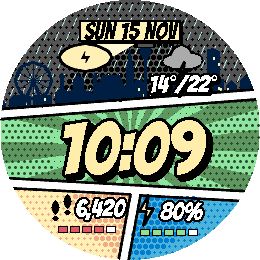
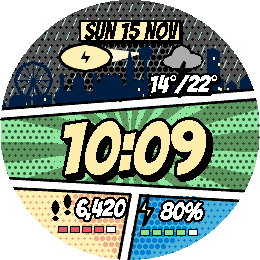
Real Donauturm silhouette; HA login fixes for local addresses
- Donauturm: slim shaft, stacked cylindrical head and the long antenna
  mast. The funnel under the head made it look like a wine glass.
- Home Assistant addresses typed without a scheme get http:// when
  they look local (mDNS names, private IPs, port 8123) instead of
  https://, which never loads on a local instance. The settings page
  shows "Opening …" while Home Assistant loads, plus a hint to try the
  external address if the login page stays blank.
- After the login, the settings carried through the OAuth state are
  sent to the watch right away.

Verified the whole login against a local Home Assistant 2026.2 in
Chromium (authorize page, redirect, token exchange) and the bundled
PebbleKit JS in a Node harness (entity list, HA_TEMP sent).

Claude-Session: https://claude.ai/code/session_018Kv7eDqzGjxn9kZXyPpq7g

Changed region(s): [[0.3692, 0.1538, 0.5846, 0.2462], [0.5538, 0.3077, 0.5846, 0.3692]]

diff --git a/src/pkjs/config.html b/src/pkjs/config.html
@@ -140,6 +140,8 @@
       <p class="hint">Enter the address you use to open Home Assistant (reachable from your phone, e.g. your Nabu Casa URL).</p>
       <input type="url" id="haUrl" placeholder="https://example.ui.nabu.casa" autocapitalize="off" autocorrect="off">
       <p><button class="btn small" id="haConnect" type="button">Connect</button></p>
+      <p class="status hidden" id="haStatus"></p>
+      <p class="hint">Local addresses (like <code>homeassistant.local:8123</code>) need your phone on the home Wi-Fi. If the login page stays blank, try your Nabu Casa or other external https address.</p>
     </div>
   </div>
 
@@ -241,10 +243,19 @@
     }
     return out;
   }
+  // Copies of isLocalHaHost / normalizeHaUrl from src/pkjs/ha.ts.
+  function isLocalHaHost(hostAndPort) {
+    var m = /^\[?([^\]/]+?)\]?(?::(\d+))?(?:\/.*)?$/.exec(hostAndPort);
+    if (!m) return false;
+    var host = m[1].toLowerCase();
+    if (m[2] === '8123') return true;
+    if (/\.(local|lan|home|internal|home\.arpa)$/.test(host) || host === 'localhost') return true;
+    return /^(10\.|127\.|192\.168\.|172\.(1[6-9]|2\d|3[01])\.)/.test(host);
+  }
   function normalizeUrl(input) {
     var url = (input || '').trim();
     if (!url) return '';
-    if (!/^https?:\/\//i.test(url)) url = 'https://' + url;
+    if (!/^https?:\/\//i.test(url)) url = (isLocalHaHost(url) ? 'http://' : 'https://') + url;
     return url.replace(/\/+$/, '');
   }
   $('haConnect').addEventListener('click', function () {
@@ -252,6 +263,10 @@
     if (!url) { $('haUrl').focus(); return; }
     var nonce = String(Math.floor(Math.random() * 1e9)) + '-' + String(Date.now());
     var state = base64UrlEncode(JSON.stringify({ u: url, n: nonce, s: settings() }));
+    // Feedback while Home Assistant loads; if it never does, the address is
+    // not reachable from this phone.
+    $('haStatus').textContent = 'Opening ' + url + ' …';
+    $('haStatus').classList.remove('hidden');
     window.location.href = url + '/auth/authorize?client_id=' +
       encodeURIComponent(config.ha.clientId) + '&redirect_uri=' +
       encodeURIComponent(config.ha.redirectUri) + '&response_type=code&state=' +

diff --git a/tests/ha.test.ts b/tests/ha.test.ts
@@ -13,10 +13,27 @@ import {
 } from "../src/pkjs/ha";
 
 describe("Home Assistant OAuth helpers", () => {
-  test("normalizes URLs", () => {
-    expect(normalizeHaUrl(" homeassistant.local:8123/ ")).toBe("https://homeassistant.local:8123");
-    expect(normalizeHaUrl("http://10.0.0.2:8123//")).toBe("http://10.0.0.2:8123");
+  test("normalizes URLs: http for local addresses, https otherwise", () => {
+    expect(normalizeHaUrl(" homeassistant.local:8123/ ")).toBe("http://homeassistant.local:8123");
+    expect(normalizeHaUrl("192.168.1.20")).toBe("http://192.168.1.20");
+    expect(normalizeHaUrl("172.20.0.5:80")).toBe("http://172.20.0.5:80");
+    expect(normalizeHaUrl("ha.example.org:8123")).toBe("http://ha.example.org:8123");
+    expect(normalizeHaUrl("abc123.ui.nabu.casa")).toBe("https://abc123.ui.nabu.casa");
+    expect(normalizeHaUrl("172.40.0.5")).toBe("https://172.40.0.5");
+    expect(normalizeHaUrl("https://10.0.0.2:8123//")).toBe("https://10.0.0.2:8123");
     expect(normalizeHaUrl("")).toBe("");
+  });
+
+  test("the settings page normalizes URLs the same way (its own copy)", () => {
+    const html = readFileSync(new URL("../src/pkjs/config.html", import.meta.url), "utf8");
+    const local = html.match(/function isLocalHaHost\(hostAndPort\) \{[\s\S]*?\n  \}/);
+    const norm = html.match(/function normalizeUrl\(input\) \{[\s\S]*?\n  \}/);
+    expect(local).not.toBeNull();
+    expect(norm).not.toBeNull();
+    const pageNormalize = new Function(local![0] + norm![0] + "; return normalizeUrl;")();
+    for (const u of ["homeassistant.local:8123/", "192.168.1.20", "x.ui.nabu.casa", "http://a.b/", "10.1.1.1:8123"]) {
+      expect(pageNormalize(u)).toBe(normalizeHaUrl(u));
+    }
   });
 
   test("base64url round-trips UTF-8", () => {

diff --git a/src/pkjs/ha.ts b/src/pkjs/ha.ts
@@ -23,13 +23,27 @@ export const HA_REDIRECT_URI =
   "https://wendevlin.github.io/pebble-casita-watchface/callback.html";
 
 /**
- * Normalize a user-entered Home Assistant URL: trim, default to https://, and
- * strip trailing slashes. Returns "" for empty input.
+ * A host Home Assistant typically serves over plain http: an mDNS name, a
+ * private IP or anything on HA's default port 8123.
+ */
+export function isLocalHaHost(hostAndPort: string): boolean {
+  const m = /^\[?([^\]/]+?)\]?(?::(\d+))?(?:\/.*)?$/.exec(hostAndPort);
+  if (!m) return false;
+  const host = m[1].toLowerCase();
+  if (m[2] === "8123") return true;
+  if (/\.(local|lan|home|internal|home\.arpa)$/.test(host) || host === "localhost") return true;
+  return /^(10\.|127\.|192\.168\.|172\.(1[6-9]|2\d|3[01])\.)/.test(host);
+}
+
+/**
+ * Normalize a user-entered Home Assistant URL: trim, add a scheme when missing
+ * (http:// for local addresses, https:// otherwise) and strip trailing slashes.
+ * Returns "" for empty input. config.html has a copy: keep them in sync.
  */
 export function normalizeHaUrl(input: string): string {
   let url = (input || "").trim();
   if (url === "") return "";
-  if (!/^https?:\/\//i.test(url)) url = "https://" + url;
+  if (!/^https?:\/\//i.test(url)) url = (isLocalHaHost(url) ? "http://" : "https://") + url;
   return url.replace(/\/+$/, "");
 }
 

diff --git a/src/pkjs/index.ts b/src/pkjs/index.ts
@@ -393,6 +393,7 @@ function finishHaLogin(code: string, state: string): void {
         const s = loadSettings();
         if (!s.haEntity) s.haEntity = defaultTempEntity(list);
         saveSettings(s);
+        sendSettings();  // includes choices carried through the login
         console.log(LOG + "Home Assistant connected, " + list.length + " entities");
         // Back into the settings page, now connected, to confirm the entity.
         openConfig();

diff --git a/src/c/scene.c b/src/c/scene.c
@@ -488,13 +488,19 @@ NOINLINE static void stephansdom(GContext *ctx, const Layout *l, const Anchor *a
   a_rect(ctx, l, a, -20, -10, -14, 16, c);             // north tower stump
 }
 
-#define DONAUTURM_TOP 45
+/* Height (units) of the middle of the Donauturm's head, where the signal starts. */
+#define DONAUTURM_HEAD 40
 
+/* Slim shaft, a stacked cylindrical head (no funnel underneath, or it reads as
+ * a wine glass), and the long antenna mast that makes it the Donauturm. */
 NOINLINE static void donauturm(GContext *ctx, const Layout *l, const Anchor *a, GColor c) {
-  a_rect(ctx, l, a, -2, -10, 2, 38, c);                // shaft
-  const int8_t head[][2] = {{-2, 35}, {2, 35}, {6, 39}, {6, DONAUTURM_TOP},
-                            {-6, DONAUTURM_TOP}, {-6, 39}};
-  a_poly(ctx, l, a, head, 6, c);
+  const int8_t shaft[][2] = {{-3, -10}, {3, -10}, {2, 36}, {-2, 36}};
+  a_poly(ctx, l, a, shaft, 4, c);
+  a_rect(ctx, l, a, -5, 35, 5, 38, c);   // lower ring
+  a_rect(ctx, l, a, -7, 38, 7, 43, c);   // restaurant drum, the widest part
+  a_rect(ctx, l, a, -5, 43, 5, 45, c);   // roof
+  a_rect(ctx, l, a, -1, 45, 1, 52, c);   // mast
+  line_draw(ctx, ap(a, 0, 52), ap(a, 0, 58), &l->sky, c, 1);  // antenna tip
 }
 
 NOINLINE static void dc_tower(GContext *ctx, const Layout *l, const Anchor *a, GColor c,
@@ -524,7 +530,7 @@ NOINLINE static void skyline(GContext *ctx, const Layout *l, const SkyPalette *p
  * the skyline, so the black tower sits in front of where it starts). */
 static GPoint signal_lamp(const Layout *l) {
   Anchor a = anchor_at(l, PM(l->lm_x[LM_DONAUTURM], l->w));
-  return ap(&a, 0, DONAUTURM_TOP - 3);
+  return ap(&a, 0, DONAUTURM_HEAD);
 }
 
 static int32_t isqrt32(int32_t v) {
